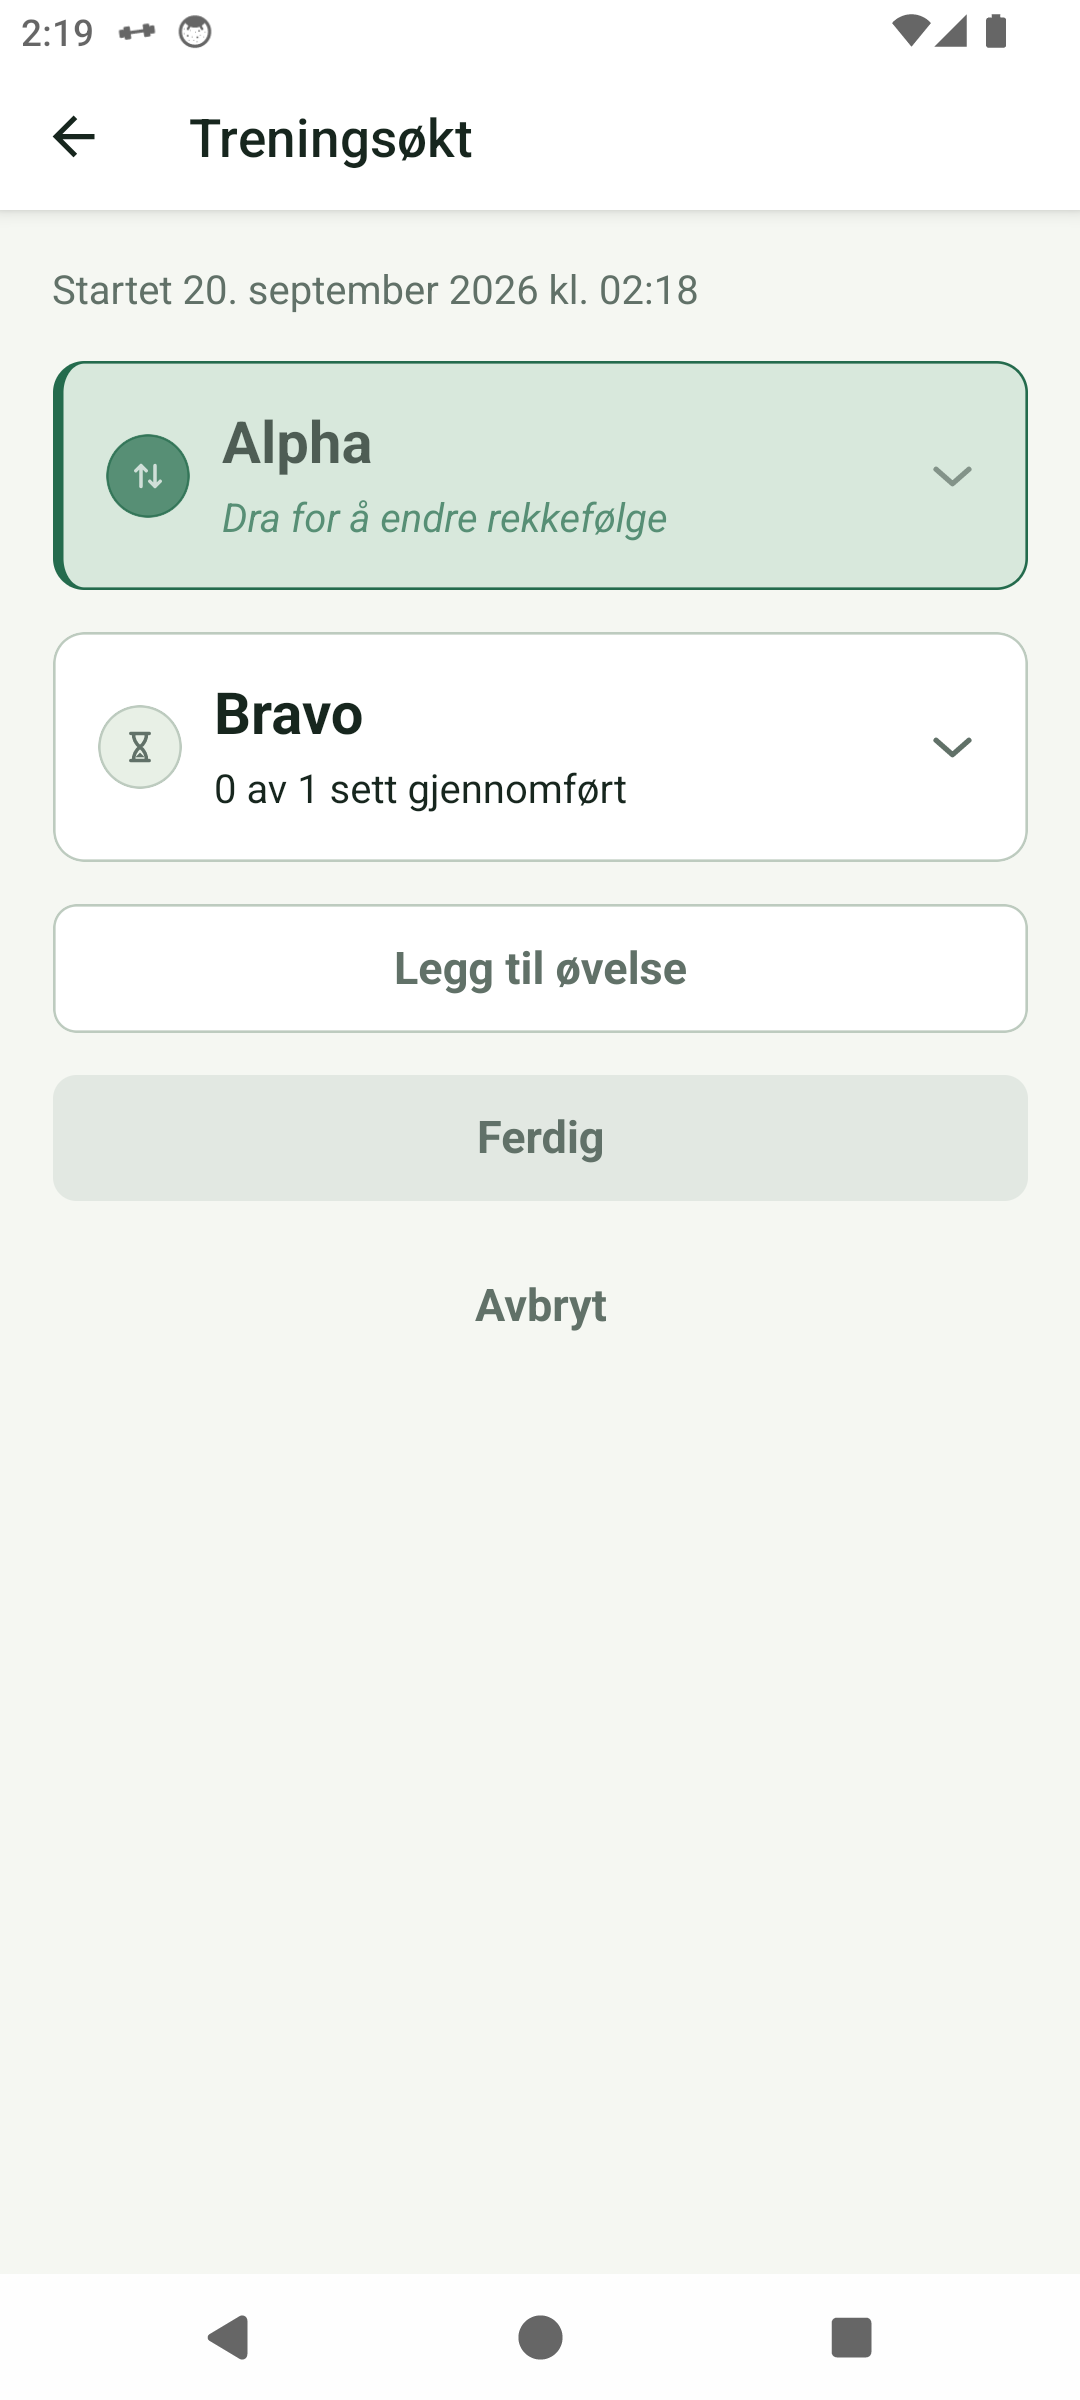
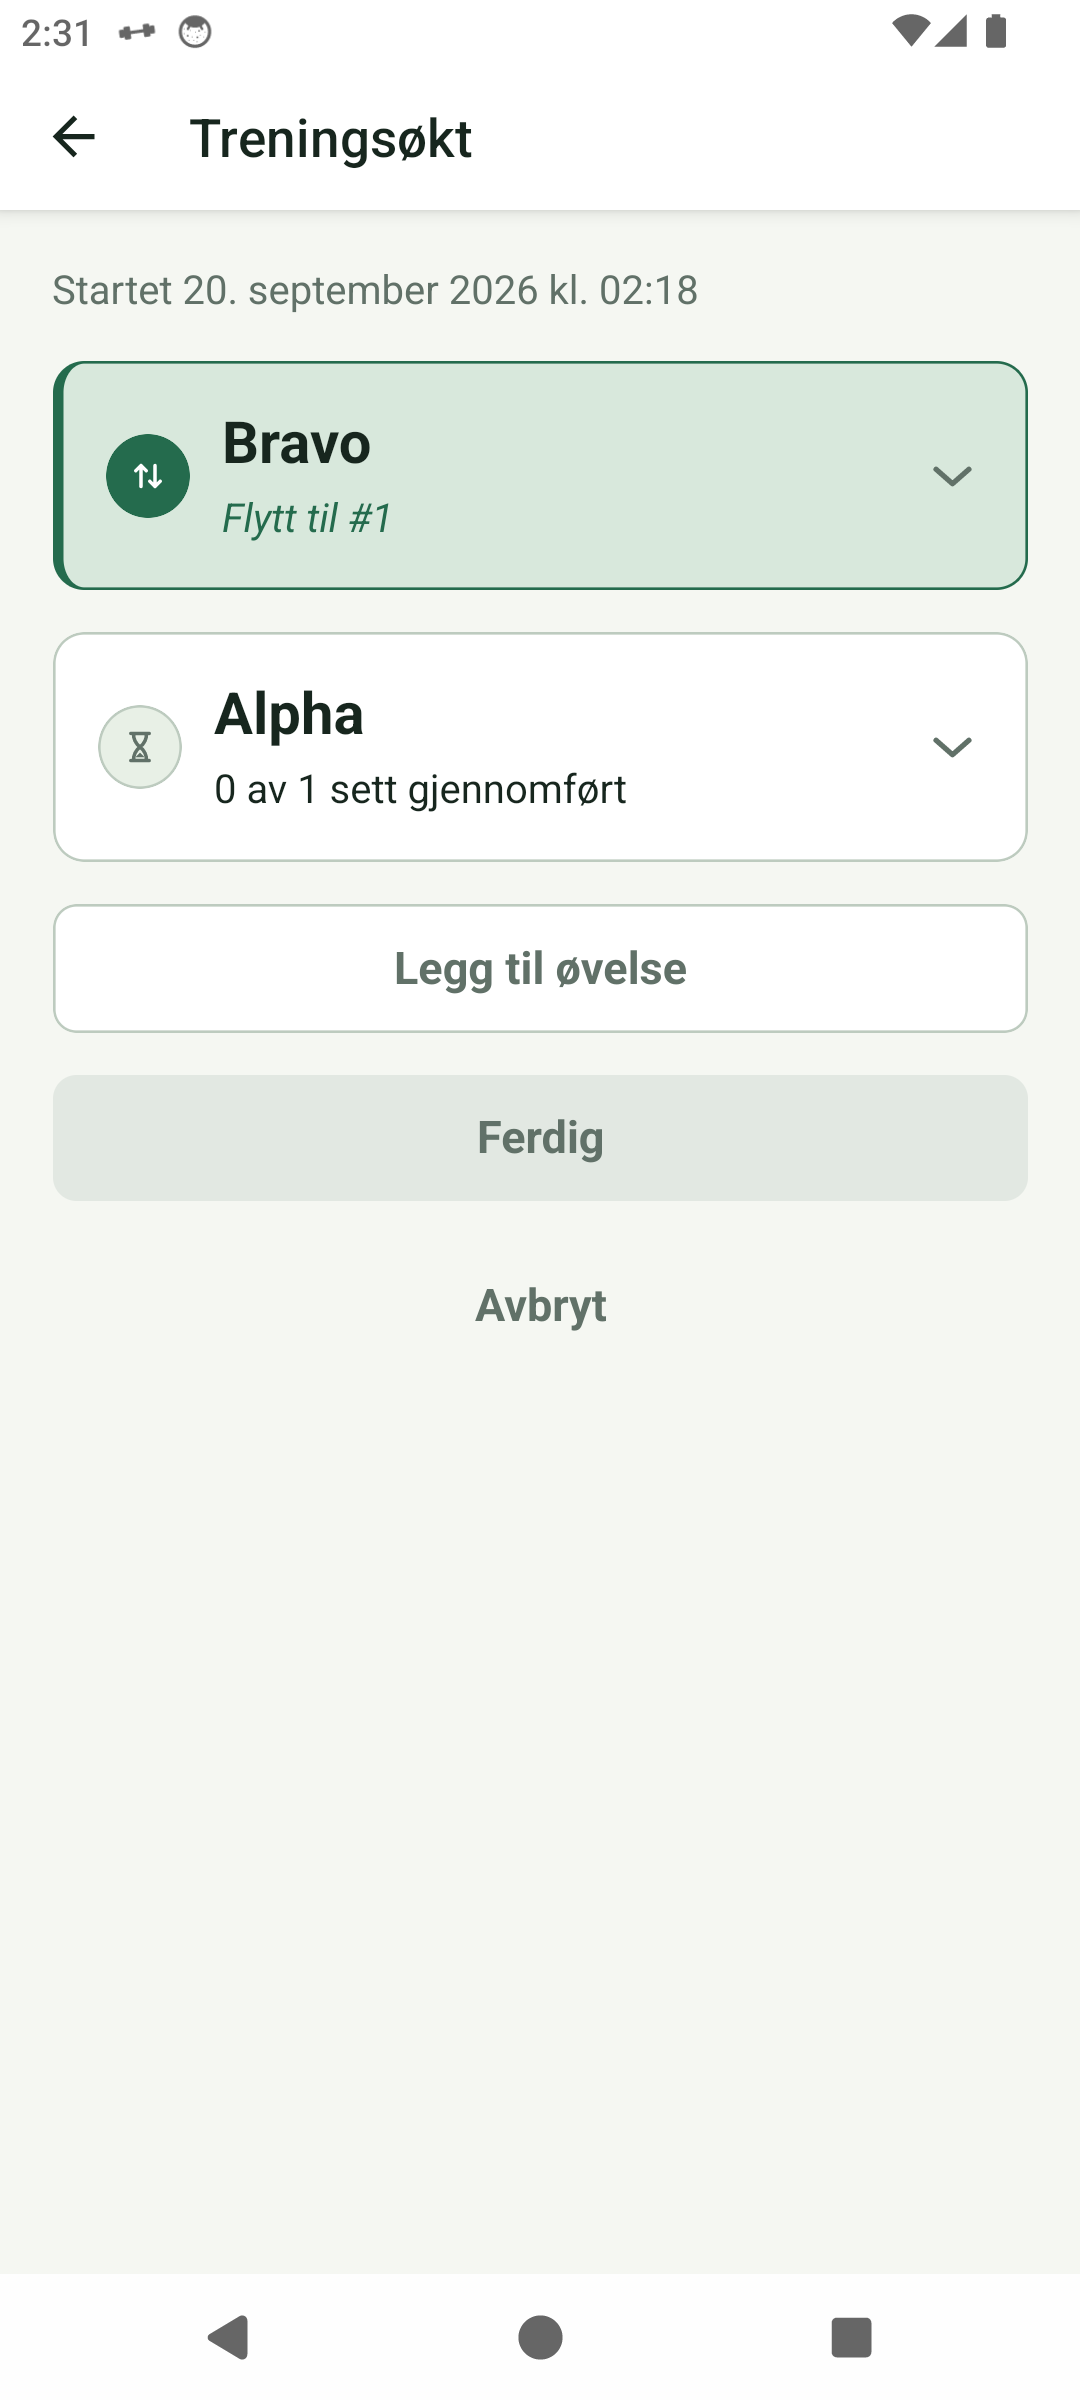
Strengthen reorder verification

diff --git a/src/screens/__tests__/WorkoutScreen.test.tsx b/src/screens/__tests__/WorkoutScreen.test.tsx
@@ -764,6 +764,25 @@ test('moves exercises in both directions immediately, persists each complete ord
   expect(announce).toHaveBeenCalledWith('Markløft flyttet til plass 2 av 3.');
 });
 
+test('collapses every card when reordered with an accessibility action', async () => {
+  mockedLoad.mockResolvedValue({
+    id: 3,
+    startedAt: STARTED_AT,
+    exercises: [...workoutWithSets.exercises, { id: 9, exerciseId: 10, name: 'Markløft', position: 1, sets: [] }],
+  });
+  renderScreen({}, null);
+  fireEvent.press(await screen.findByRole('button', { name: /Knebøy/ }));
+  fireEvent.press(screen.getByRole('button', { name: /Markløft/ }));
+
+  fireEvent(screen.getAllByRole('button', { name: /Markløft/ })[0], 'accessibilityAction', {
+    nativeEvent: { actionName: 'moveUp' },
+  });
+
+  await waitFor(() => expect(mockedReorderExercises).toHaveBeenCalled());
+  expect(screen.getByRole('button', { name: /Knebøy/ })).toHaveProp('accessibilityState', { expanded: false });
+  expect(screen.getByRole('button', { name: /Markløft/ })).toHaveProp('accessibilityState', { expanded: false });
+});
+
 test('drags an exercise across positions, collapses every card, and persists once on drop', async () => {
   mockedLoad.mockResolvedValue({
     id: 3,
@@ -914,6 +933,7 @@ test('rolls a failed reorder back without losing exercise data or draft values',
   expect(await screen.findByRole('alert')).toHaveTextContent(/Kunne ikke flytte øvelsen\. Prøv igjen\./);
   expect(screen.getAllByText(/^(Knebøy|Markløft)$/).map((node) => node.props.children))
     .toEqual(['Knebøy', 'Markløft']);
+  fireEvent.press(screen.getByRole('button', { name: /Knebøy/ }));
   expect(screen.getByLabelText('Belastning for Knebøy')).toHaveProp('value', '82,5');
   expect(screen.getByLabelText('Sett 1, 80 kilogram, 5 repetisjoner, Gjennomført')).toBeOnTheScreen();
   expect(announce).toHaveBeenCalledWith('Kunne ikke flytte øvelsen. Prøv igjen.');

diff --git a/src/ui/__tests__/DisclosureCard.test.tsx b/src/ui/__tests__/DisclosureCard.test.tsx
@@ -108,7 +108,8 @@ it('exposes contextual actions on the interactive header', () => {
   }));
 });
 
-it('starts reorder on long press, forwards movement and drop, and suppresses the ordinary press', () => {
+it('starts reorder on long press, forwards movement and drop, and suppresses the release press', () => {
+  jest.useFakeTimers();
   const onPress = jest.fn();
   const onReorderStart = jest.fn();
   const onReorderMove = jest.fn();
@@ -137,6 +138,11 @@ it('starts reorder on long press, forwards movement and drop, and suppresses the
   expect(onReorderMove).toHaveBeenCalledWith(240);
   expect(onReorderEnd).toHaveBeenCalledTimes(1);
   expect(onPress).not.toHaveBeenCalled();
+
+  act(() => jest.runAllTimers());
+  fireEvent.press(header);
+  expect(onPress).toHaveBeenCalledTimes(1);
+  jest.useRealTimers();
 });
 
 it('forwards reorder cancellation and does not start while disabled', () => {

diff --git a/src/screens/WorkoutScreen.tsx b/src/screens/WorkoutScreen.tsx
@@ -711,6 +711,7 @@ export function WorkoutScreen({ navigation, route }: Props) {
     const from = previousExercises.findIndex((exercise) => exercise.id === workoutExerciseId);
     const to = from + offset;
     if (from < 0 || to < 0 || to >= previousExercises.length) return;
+    setExpandedIds(new Set());
     const exercises = [...previousExercises];
     const [moved] = exercises.splice(from, 1);
     exercises.splice(to, 0, moved);

diff --git a/src/ui/DisclosureCard.tsx b/src/ui/DisclosureCard.tsx
@@ -83,6 +83,7 @@ export function DisclosureCard({ title, summary, summaryEmphasized = false, expa
     longPressStarted.current = false;
     suppressPress.current = true;
     onReorderEnd?.();
+    setTimeout(() => { suppressPress.current = false; }, 0);
   }
 
   function cancel() {
